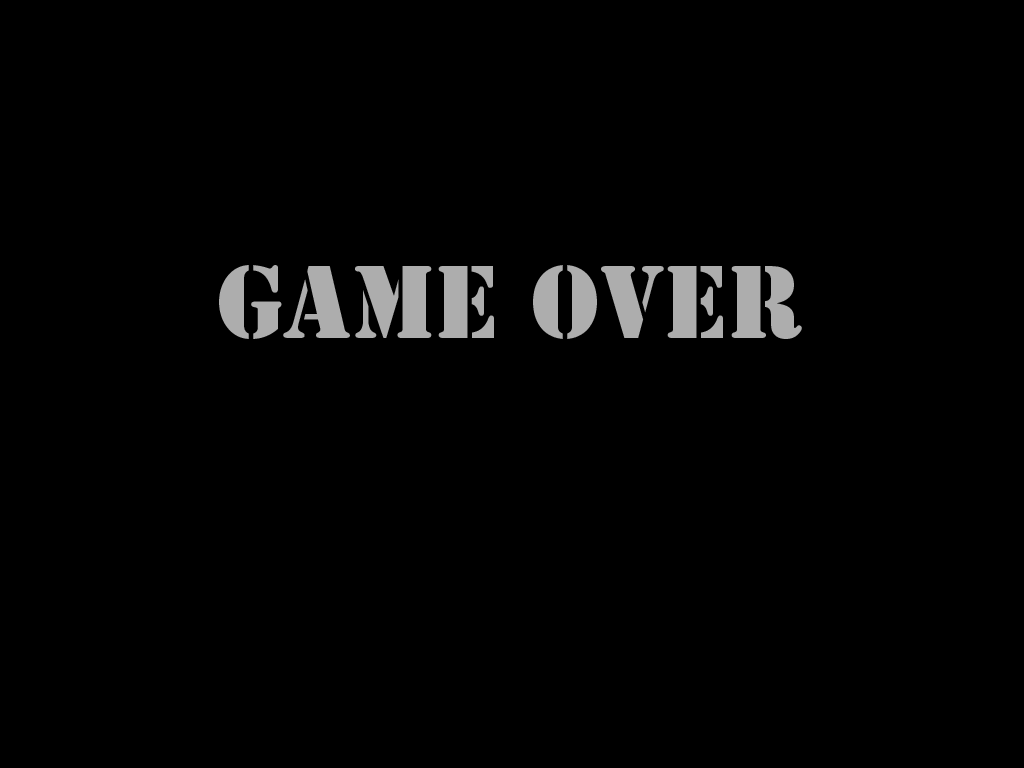
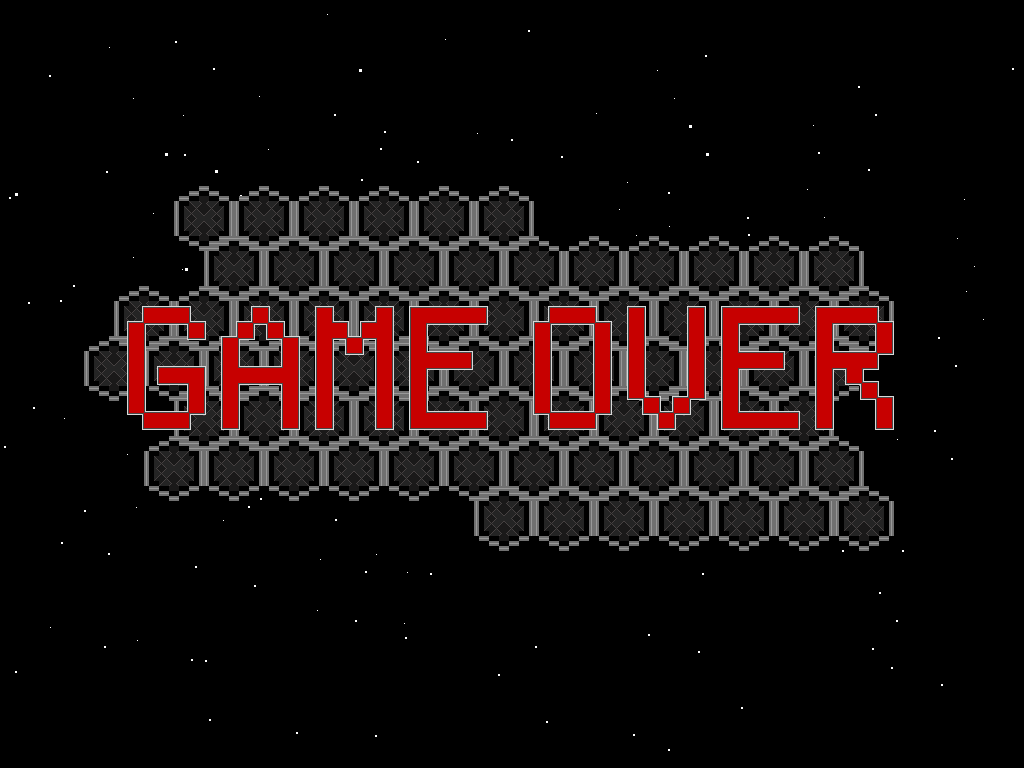
added enemy sound and re-did backgrounds

Changed region(s): [[0.0625, 0.25, 0.875, 0.7188]]

diff --git a/src/edu/csupomona/kyra/state/level/Level.java b/src/edu/csupomona/kyra/state/level/Level.java
@@ -24,6 +24,7 @@ import edu.csupomona.kyra.component.render.LevelRender;
 import edu.csupomona.kyra.component.render.ai.ZombieRender;
 import edu.csupomona.kyra.component.render.player.Player1Render;
 import edu.csupomona.kyra.component.render.player.Player2Render;
+import edu.csupomona.kyra.component.sound.ZombieFx;
 import edu.csupomona.kyra.entity.Entity;
 
 public abstract class Level extends BasicGameState {
@@ -53,6 +54,7 @@ public abstract class Level extends BasicGameState {
 		zombie.addComponent(new ZombieAI("ai_"+name, player1, player2, tiledMap));
 		zombie.addComponent(new ZombiePhysics("physics"+name, 60, 31, tiledMap));
 		zombie.addComponent(new ZombieRender("render"+name));
+		zombie.addComponent(new ZombieFx("fx"+name));
 		entities.add(zombie);
 		enemies.add(zombie);
 	}
@@ -100,8 +102,7 @@ public abstract class Level extends BasicGameState {
 		}
 		
 		map = new Entity("map");
-		map.addComponent(new LevelRender("level", tiledMap, player1));
-		
+		map.addComponent(new LevelRender("level", tiledMap, player1));		
 		
 	}
 
@@ -154,6 +155,9 @@ public abstract class Level extends BasicGameState {
 				if(player1.getHealthComponent().zeroHealth()) {
 					input.clearKeyPressedRecord();
         			player1.getSoundComponent().stopAll();
+        			for (Entity entity : entities)
+    					if (entity.getSoundComponent() != null)
+    						entity.getSoundComponent().stopAll();
         			gc.resume();
         			sbg.getCurrentState().leave(gc, sbg);
         			sbg.getState(Kyra.GAMEOVERSTATE).init(gc, sbg);
@@ -165,6 +169,9 @@ public abstract class Level extends BasicGameState {
 					input.clearKeyPressedRecord();
         			player1.getSoundComponent().stopAll();
             		player2.getSoundComponent().stopAll();
+            		for (Entity entity : entities)
+    					if (entity.getSoundComponent() != null)
+    						entity.getSoundComponent().stopAll();
         			gc.resume();
         			sbg.getCurrentState().leave(gc, sbg);
         			sbg.getState(Kyra.GAMEOVERSTATE).init(gc, sbg);

diff --git a/src/edu/csupomona/kyra/component/sound/ZombieFx.java b/src/edu/csupomona/kyra/component/sound/ZombieFx.java
@@ -1,0 +1,35 @@
+package edu.csupomona.kyra.component.sound;
+
+import org.newdawn.slick.GameContainer;
+import org.newdawn.slick.SlickException;
+import org.newdawn.slick.Sound;
+import org.newdawn.slick.geom.Line;
+import org.newdawn.slick.state.StateBasedGame;
+
+public class ZombieFx  extends SoundComponent {
+
+	Sound random;
+	boolean played;
+	
+	public ZombieFx(String id) throws SlickException {
+		super(id);
+		random = new Sound("audio/enemy_random.ogg");
+		played = false;
+	}
+	
+	public void update(GameContainer gc, StateBasedGame sb, int delta) {
+		
+		Line attackPath = owner.getAIComponent().getLineToTarget();
+		
+		if(attackPath != null && attackPath.length() <= 450.0f && (random != null) && !random.playing() && !played) {
+			random.play();
+			played = true;
+		} else if(attackPath != null && attackPath.length() >= 450.0f)
+			played = false;
+	}
+	public void stopAll() {
+		if(random != null)
+			random.stop();
+	}
+
+}

diff --git a/src/edu/csupomona/kyra/component/ai/ZombieAI.java b/src/edu/csupomona/kyra/component/ai/ZombieAI.java
@@ -30,5 +30,4 @@ public class ZombieAI extends AIComponent {
 				actions.add("right");
 		}
 	}
-
 }
